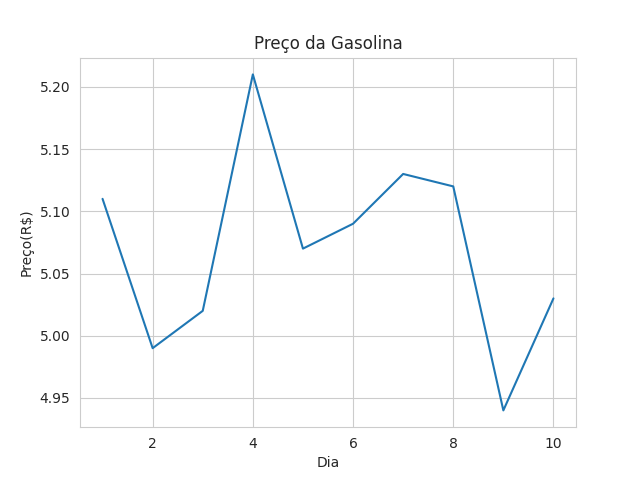
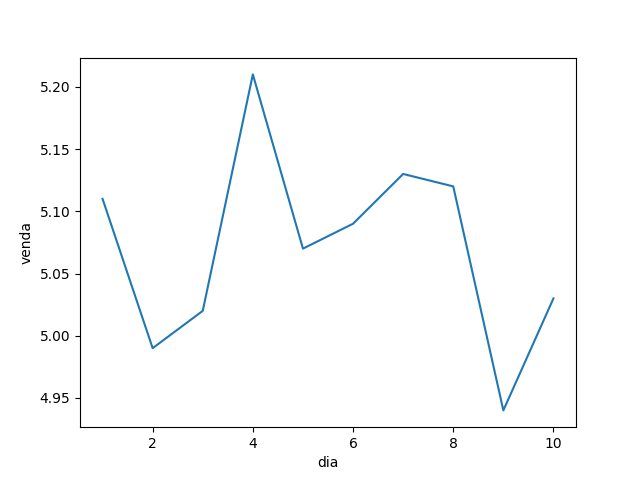
adicionado arquivos gasolina.csv; gasolina.png; gasolina.py

diff --git a/gasolina.py b/gasolina.py
@@ -7,9 +7,6 @@ import seaborn as sns
 data = pd.read_csv('gasolina.csv', sep=',')
 
 #Grafico
-with sns.axes_style('whitegrid'):
-
-  grafico = sns.lineplot(data=data, x="dia", y="venda")
-  grafico.set(title='Preço da Gasolina', xlabel='Dia', ylabel='Preço(R$)');
+grafico = sns.lineplot(data=data, x="dia", y="venda")
 sfig = grafico.get_figure()
 sfig.savefig("gasolina.png", orientation="landscape")
